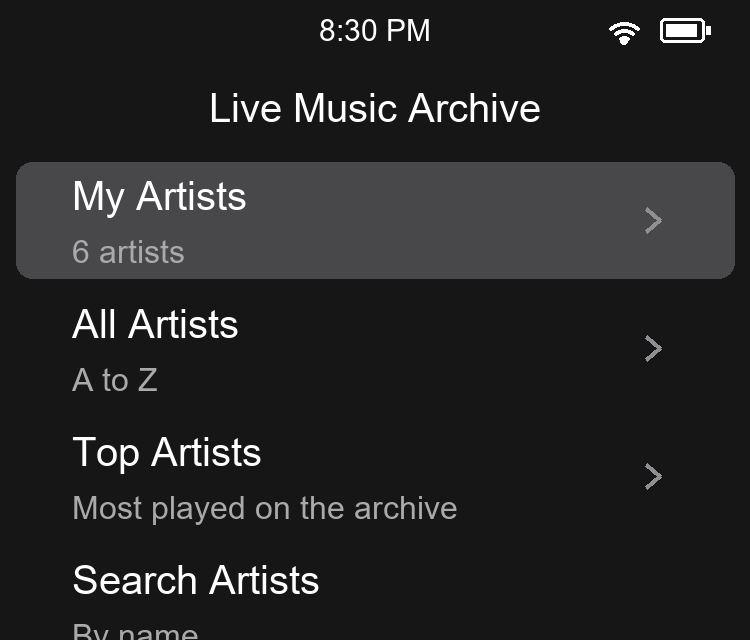
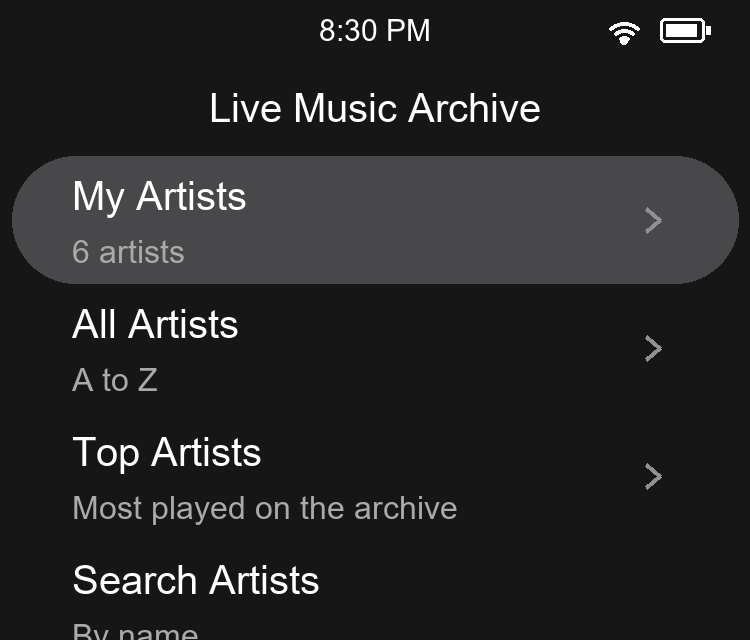
docs/guide: the selection is Rounded Corners' pill

diff --git a/docs/guide/mockups.py b/docs/guide/mockups.py
@@ -66,7 +66,8 @@ def page(name, title, rows, sel=0, playing=True):
         if y >= H:
             break
         if i == sel:
-            d.rounded_rectangle([8 * S, (y + 3) * S, (W - 8) * S, (y + ROW - 3) * S], radius=8 * S, fill=SEL)
+            # Rounded Corners' pill: the row inset SEL_INSET (6) a side, its ends h / 2 (navigation.c)
+            d.rounded_rectangle([6 * S, y * S, (W - 6) * S, (y + ROW) * S - 1], radius=ROW / 2 * S, fill=SEL)
         if det is None:
             label(d, X * S, (y + ROW / 2) * S, cap, CAP, "white")
         else:
